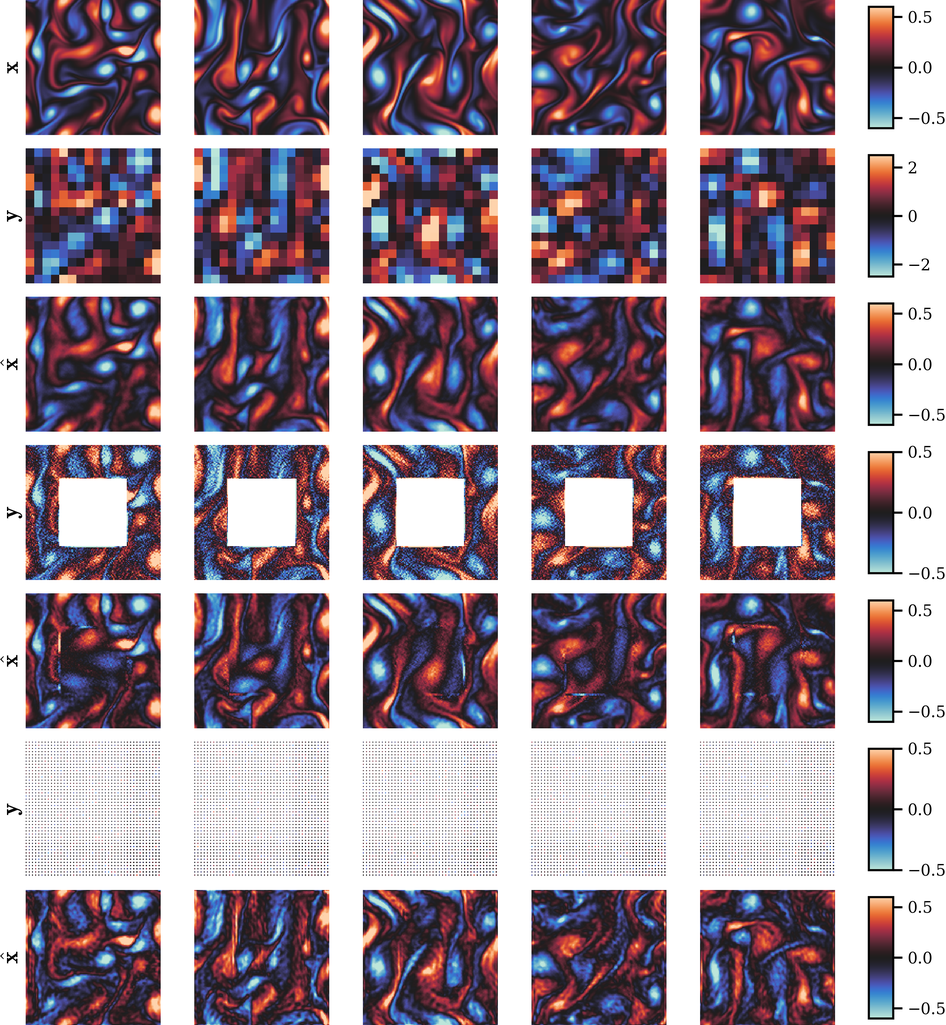
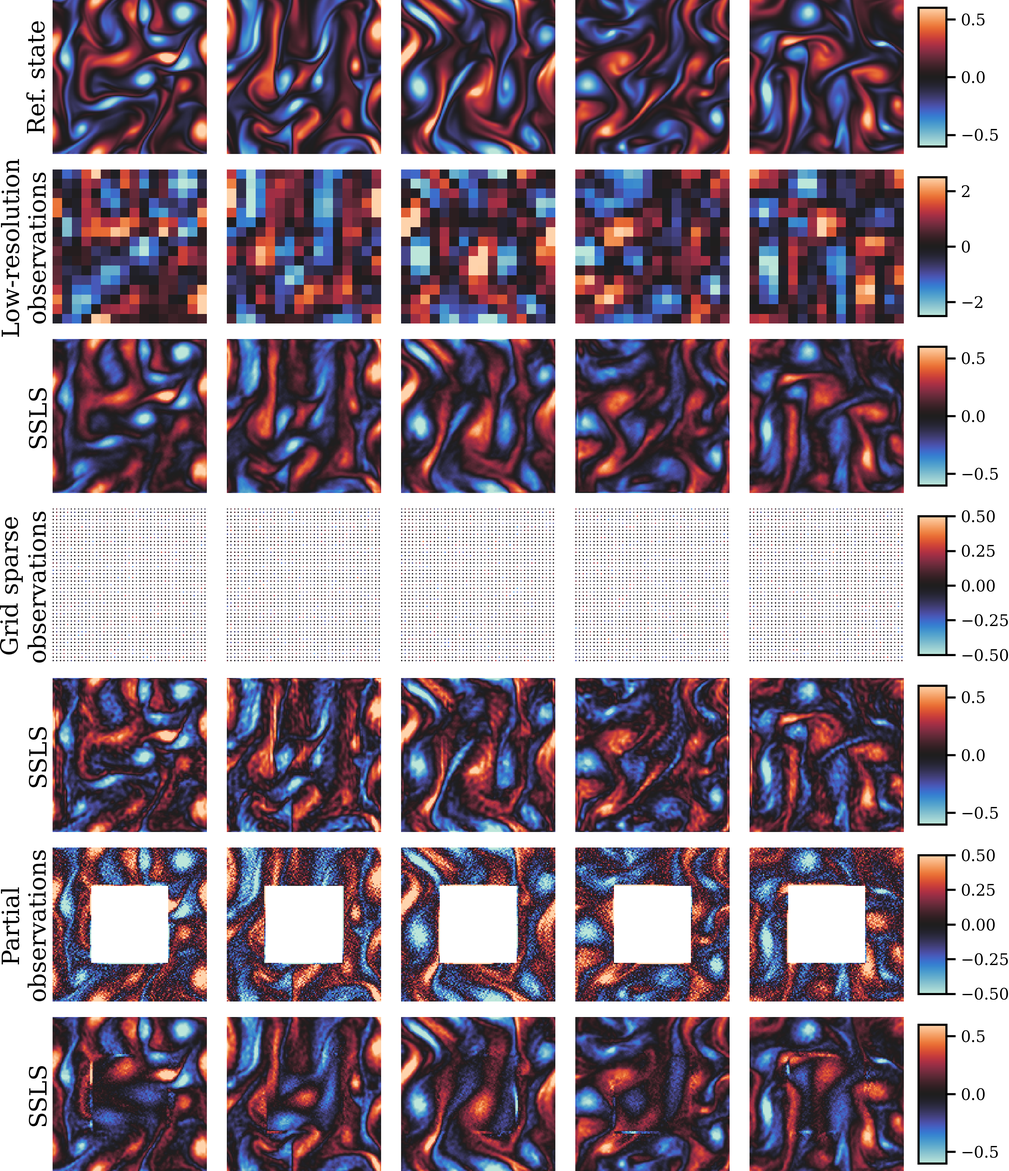
plot: minor style modifications     - label, legend, tick update     - update Figure number, Figure 5 is removed now     - change vertical order of KFlow evolution (Figure 8)

diff --git a/README.md b/README.md
@@ -23,18 +23,18 @@ pip install -r requirements.txt
 |   `-- mplrc # custom matplotlib configurations for visualization
 |-- main.py # entrance
 ├── notebooks
-│   ├── KolmogorovAblation.ipynb # reproducing Figure 12
-│   ├── KolmogorovEvolution.ipynb # reproducing Figure 9
+│   ├── KolmogorovAblation.ipynb # reproducing Figure 11
+│   ├── KolmogorovEvolution.ipynb # reproducing Figure 8
 │   ├── KolmogorovMLE.ipynb # ensemble MLE and w/o prior score for ablation studies
-│   ├── KolmogorovMetrics.ipynb # reproducing Figure 15
-│   ├── KolmogorovUQ.ipynb # reproducing Figure 10 and Figure 11
+│   ├── KolmogorovMetrics.ipynb # reproducing Figure 14
+│   ├── KolmogorovUQ.ipynb # reproducing Figure 9 and Figure 10
 │   ├── LinearGaussianSSM.ipynb # reproducing Figure 3
 │   ├── LorenzAuxiliaryParticleFilter.ipynb # APF with infation for Lorenz 96
-│   ├── LorenzEnsemble.ipynb # reproducing Figure 13
-│   ├── LorenzEvolution.ipynb # reproducing Figure 7
+│   ├── LorenzEnsemble.ipynb # reproducing Figure 12
+│   ├── LorenzEvolution.ipynb # reproducing Figure 6
 │   ├── LorenzKalmanFilter.ipynb # EnKF for Lorenz 96
-│   ├── LorenzMetrics.ipynb # reproducing Figure 8
-│   └── LorenzTrajectory.ipynb # reproducing Figure 14
+│   ├── LorenzMetrics.ipynb # reproducing Figure 7
+│   └── LorenzTrajectory.ipynb # reproducing Figure 13
 |-- requirements.txt 
 `-- src
 |   |-- __init__.py
